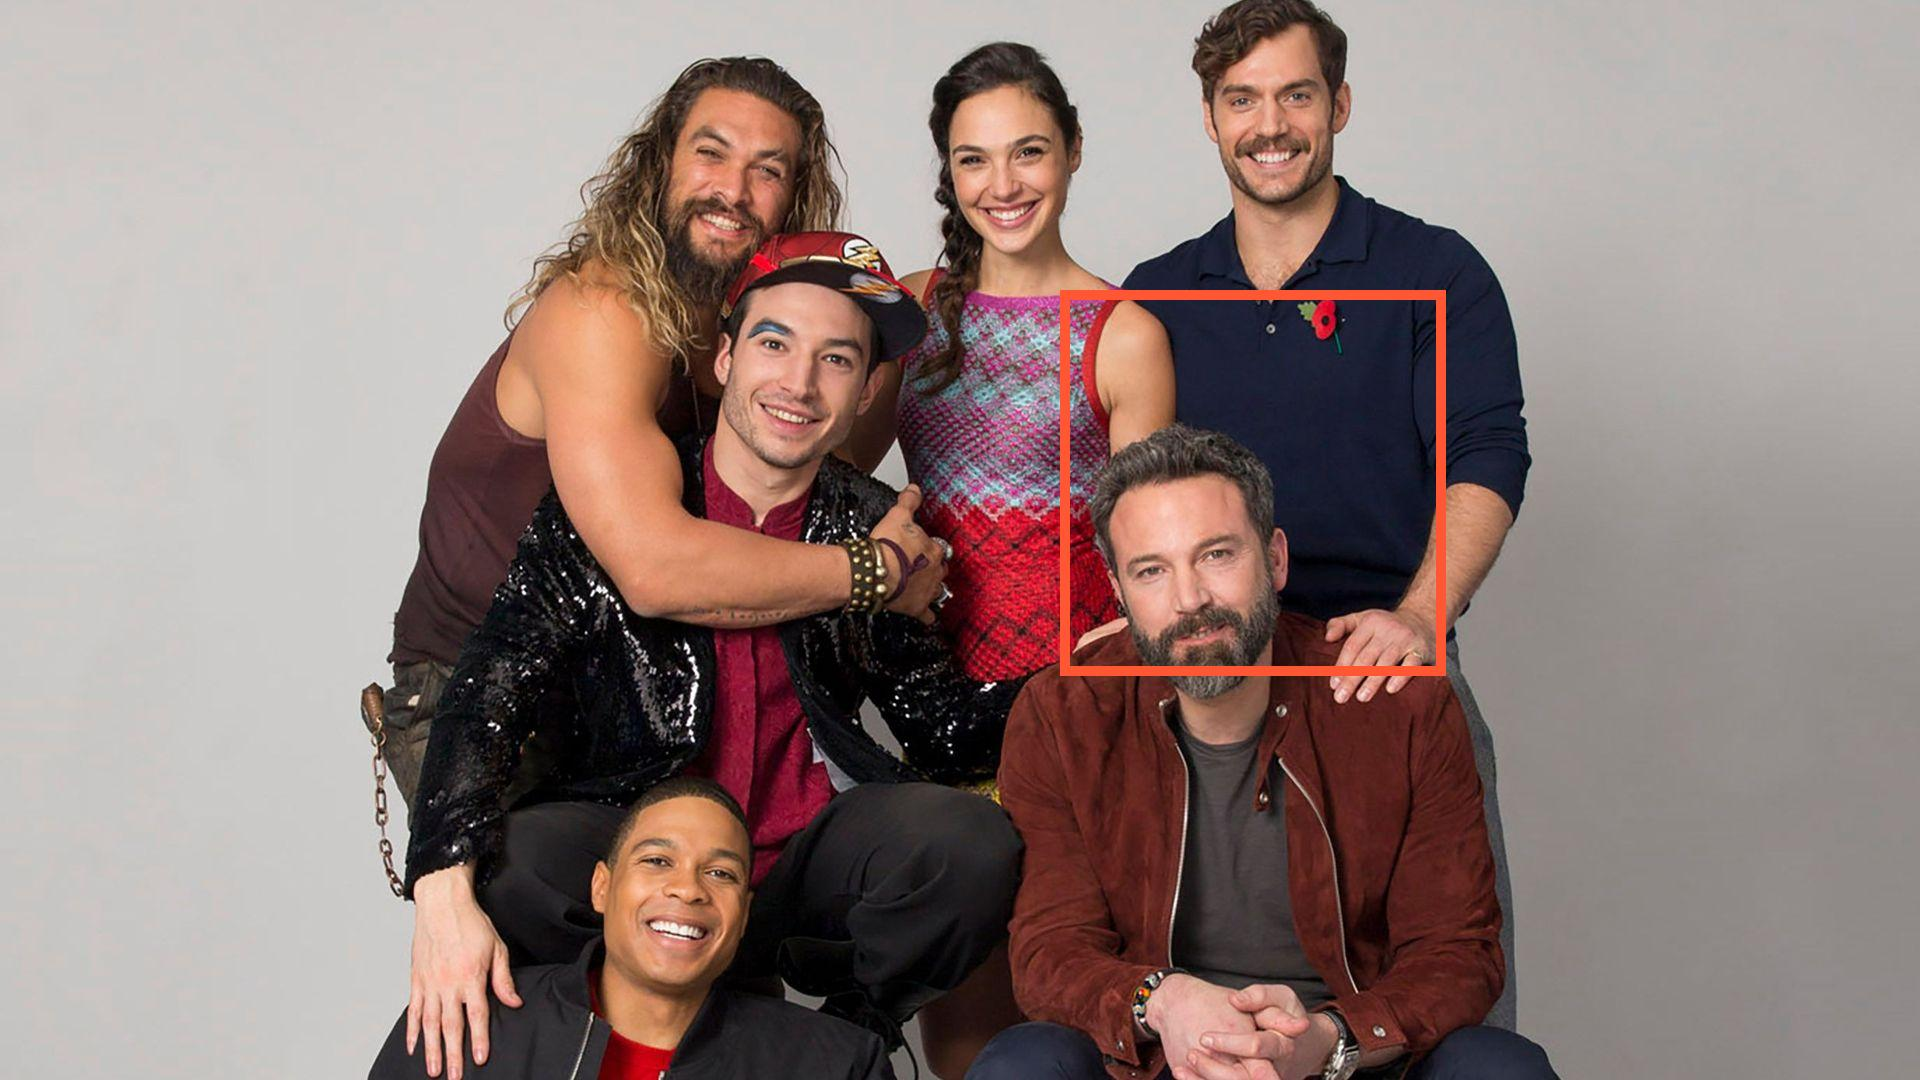
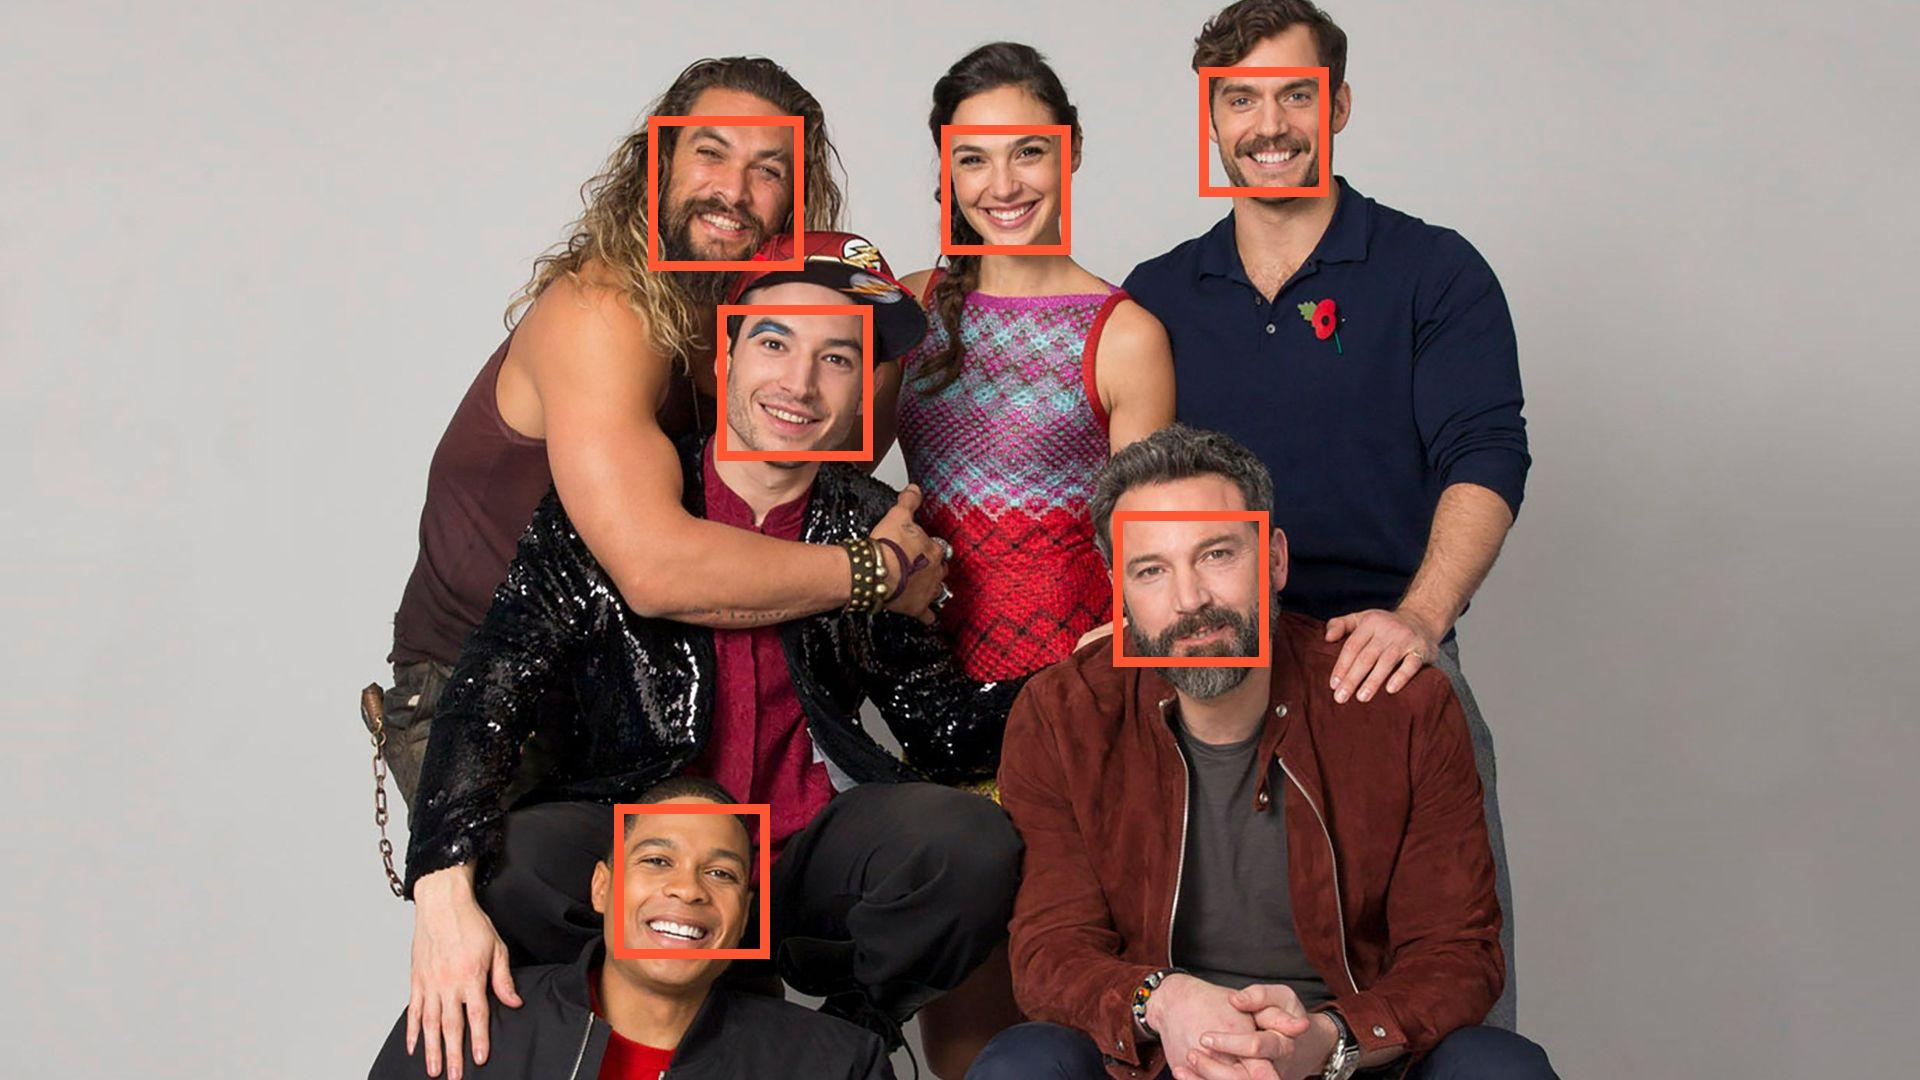
Pillow 4

diff --git a/main.py b/main.py
@@ -25,12 +25,11 @@ def face_rec():
   pil_justice_league_img = Image.fromarray(justice_league_img)
   draw_justice_league_img = ImageDraw.Draw(pil_justice_league_img)
   
-  for(top, right, bottom, left) in gal_face_location:
+  for(top, right, bottom, left) in justice_league_faces_location:
      draw_justice_league_img.rectangle(((left, top), (right, bottom)), outline=(255, 87, 51), width=10)
   
   pil_justice_league_img.save("img/new_justice_league.jpg")
   del draw_justice_league_img
-
 
 def main():
   face_rec()
